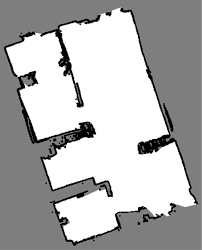
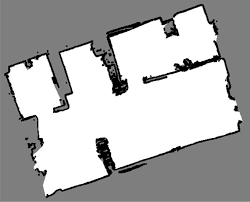
find match pts, compute the overlapping region

diff --git a/pract_match.py b/pract_match.py
@@ -1,0 +1,90 @@
+# -*- coding:utf-8 -*-
+# URL: https://www.itread01.com/content/1547651741.html
+# URL: https://www.twblogs.net/a/5c15f1e7bd9eee5e418425b7
+
+
+
+import cv2
+import numpy as np
+from matplotlib import pyplot as plt
+
+img_1 = cv2.imread('occ.png')
+img_2 = cv2.imread('occ1.png')
+
+# gray_1 = cv2.cvtColor(img_1, cv2.COLOR_RGB2GRAY) # 灰階圖
+# gray_2 = cv2.cvtColor(img_2, cv2.COLOR_RGB2GRAY) # 灰階圖
+
+siftDetector = cv2.xfeatures2d.SIFT_create()
+key_points_1, descriptor_1 = siftDetector.detectAndCompute(img_1, None)
+key_points_2, descriptor_2 = siftDetector.detectAndCompute(img_2, None)
+
+bf = cv2.BFMatcher() # 創建暴力匹配對象，cv2.BFMatcher()；
+matches = bf.knnMatch(descriptor_1, descriptor_2, k=2) # 使用Matcher.knnMatch()獲得兩幅圖像的K個最佳匹配；
+
+
+# matches class -> DMatch
+# DMatch Attribute:
+# 1. distance
+# 2. imgIdx : always constant 0, useful when matching with multiple images.
+# 3. queryIdx : train image index (first image)
+# 4. trainIdx : query descriptor index (second image)
+
+
+good = []
+for m, n in matches:
+    if m.distance < 0.75*n.distance: #獲得的K個最佳匹配中取出來第一個和第二個，進行比值，比值小於0.75，則爲好的匹配點
+        good.append([m])
+        # print(m.queryIdx, m.trainIdx, m.imgIdx)
+        # print(n.queryIdx, n.trainIdx, n.imgIdx)
+
+img_3 = np.empty((600,600))
+img_3 = cv2.drawMatchesKnn(img_1, key_points_1, img_2, key_points_2, good[:20], img_3, flags=2) #採用cv2.drawMatchesKnn()函數，在最佳匹配的點之間繪製直線
+
+xM_1 = key_points_1[good[0][0].queryIdx].pt[0]
+xm_1 = key_points_1[good[0][0].queryIdx].pt[0]
+yM_1 = key_points_1[good[0][0].queryIdx].pt[1] 
+ym_1 = key_points_1[good[0][0].queryIdx].pt[1]
+
+xM_2 = key_points_2[good[0][0].trainIdx].pt[0]
+xm_2 = key_points_2[good[0][0].trainIdx].pt[0] 
+yM_2 = key_points_2[good[0][0].trainIdx].pt[1] 
+ym_2 = key_points_2[good[0][0].trainIdx].pt[1]
+                            
+for i in good[:20]:
+    query_idx = i[0].queryIdx
+    train_idx = i[0].trainIdx
+
+    if key_points_1[query_idx].pt[0] > xM_1:
+        xM_1 = key_points_1[query_idx].pt[0]
+    elif key_points_1[query_idx].pt[0] < xm_1:
+        xm_1 = key_points_1[query_idx].pt[0]
+
+    if key_points_1[query_idx].pt[1] > yM_1:
+        yM_1 = key_points_1[query_idx].pt[1]
+    elif key_points_1[query_idx].pt[1] < ym_1:
+        ym_1 = key_points_1[query_idx].pt[1]
+
+    if key_points_2[train_idx].pt[0] > xM_2:
+        xM_2 = key_points_2[train_idx].pt[0]
+    elif key_points_2[train_idx].pt[0] < xm_2:
+        xm_2 = key_points_2[train_idx].pt[0]
+
+    if key_points_2[train_idx].pt[1] > yM_2:
+        yM_2 = key_points_2[train_idx].pt[1]
+    elif key_points_2[train_idx].pt[1] < ym_2:
+        ym_2 = key_points_2[train_idx].pt[1]
+
+dx, dy, _ = np.shape(img_1)
+xM_2 += dy
+xm_2 += dy
+
+plt.imshow(img_3)
+plt.plot([xM_1, xM_1, xm_1, xm_1, xM_1], [yM_1, ym_1, ym_1, yM_1, yM_1], color='red')
+plt.plot([xM_2, xM_2, xm_2, xm_2, xM_2], [yM_2, ym_2, ym_2, yM_2, yM_2], color='red')
+plt.show()
+
+
+
+
+
+

diff --git a/test.py b/test.py
@@ -1,0 +1,18 @@
+# x = []
+
+# for i in range(10):
+#     x.append([
+#         i,
+#         2*i,
+#         3*i
+#     ])
+
+# for i,j,z in x:
+#     print(i,j,z)
+
+x = None
+
+if x < 10:
+    print("true")
+else:
+    print("false")
